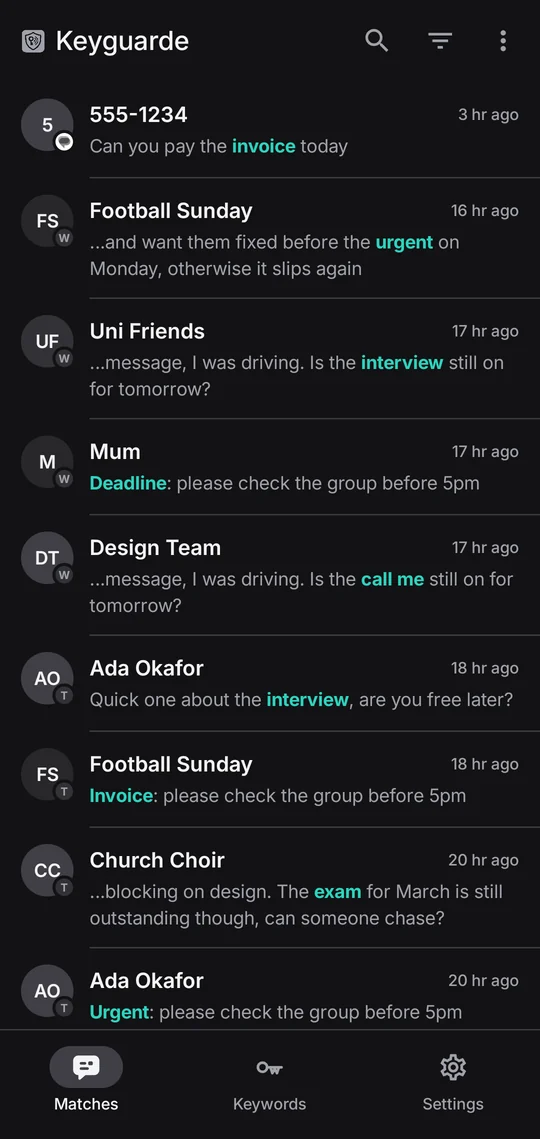
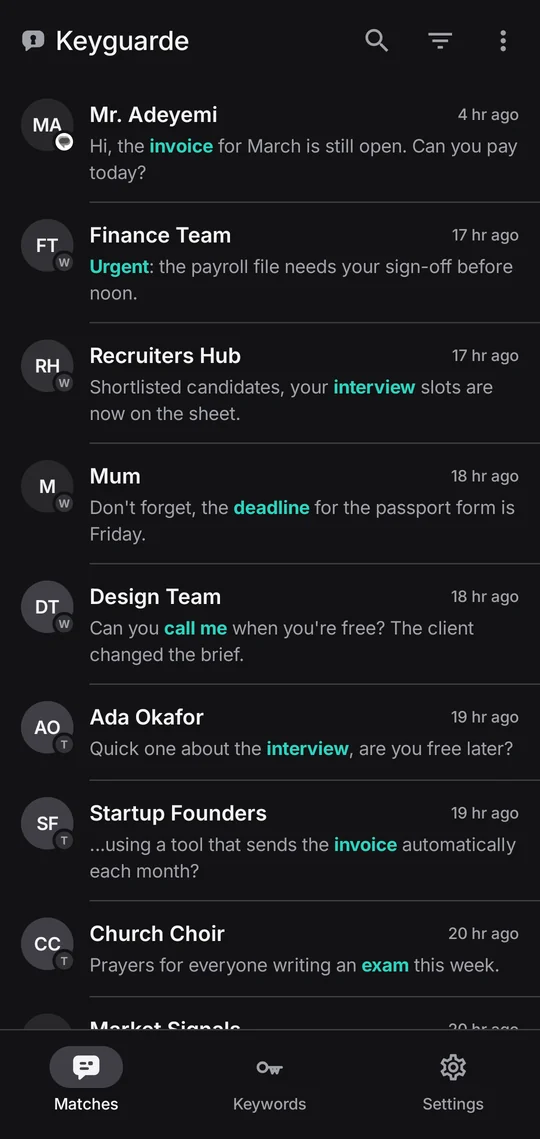
fix(website): design review fixes
Android phone frame and fresh screenshots with distinct messages and the new logo. Notification cards stay off the screen on desktop and stack at reading size on phones. The headline breaks after "an" so the rotating word never re-wraps. Labels move to Inter so the condensed face means keywords only. Outline nav button, 44px tap targets, a lifted dark-mode privacy band, trust questions first, and "Free, with ads".

Changed region(s): [[0.0296, 0.0922, 0.9778, 0.9219], [0.0296, 0.0307, 0.1481, 0.1536], [0.9185, 0.8604, 0.9481, 0.8911]]

diff --git a/website/src/components/home/Hero.tsx b/website/src/components/home/Hero.tsx
@@ -8,6 +8,21 @@ import PlayBadge from './PlayBadge';
 import matchesLight from '../../assets/app/matches-light.webp';
 import matchesDark from '../../assets/app/matches-dark.webp';
 
+const landlord = {
+  app: 'WhatsApp',
+  chat: 'Landlord',
+  before: 'Reminder: ',
+  keyword: 'rent',
+  after: ' is due on Friday.'
+};
+const hiring = {
+  app: 'Telegram',
+  chat: 'Hiring team',
+  before: 'Your ',
+  keyword: 'interview',
+  after: ' is moved to 10am tomorrow.'
+};
+
 // All take "an", so the sentence reads right whichever word is showing.
 const heroWords = ['invoice', 'interview', 'offer', 'order'];
 const heroWordMillis = 2400;
@@ -22,9 +37,13 @@ export default function Hero({ onHowItWorks }: HeroProps) {
   return (
     <section className="mx-auto grid max-w-6xl items-center gap-16 px-4 pt-12 pb-20 md:px-6 lg:grid-cols-[1.1fr_1fr] lg:pt-20">
       <div>
-        <SectionLabel>Android app · Free</SectionLabel>
-        <h1 className="mt-4 text-5xl leading-[1.05] font-bold tracking-tight text-ink md:text-6xl">
-          Never miss an <Keyword>{word}</Keyword> again
+        <SectionLabel>Android app · Free, with ads</SectionLabel>
+        {/* A fixed break after "an", and a size the longest word fits at 360px, so the rotating
+            word never re-wraps the headline. */}
+        <h1 className="mt-4 text-4xl leading-[1.05] font-bold tracking-tight text-ink sm:text-5xl md:text-6xl">
+          Never miss an
+          <br />
+          <Keyword>{word}</Keyword> again
         </h1>
         <p className="mt-6 max-w-xl text-lg leading-relaxed text-ink-muted">
           Keyguarde watches your chat notifications for the words you pick, and keeps every message
@@ -35,7 +54,7 @@ export default function Hero({ onHowItWorks }: HeroProps) {
           <button
             type="button"
             onClick={onHowItWorks}
-            className="font-semibold text-ink underline decoration-line-strong underline-offset-4 hover:decoration-ink"
+            className="inline-flex min-h-11 items-center font-semibold text-ink underline decoration-line-strong underline-offset-4 hover:decoration-ink"
           >
             How it works
           </button>
@@ -44,6 +63,12 @@ export default function Hero({ onHowItWorks }: HeroProps) {
       </div>
 
       <div className="relative mx-auto w-full max-w-sm">
+        {/* Below desktop width the cards stack above the phone at reading size; they carry the
+            story of a message coming in, and the screenshot alone is too small to read there. */}
+        <div className="mb-6 grid gap-3 lg:hidden">
+          <NotificationCard {...landlord} />
+          <NotificationCard {...hiring} />
+        </div>
         <PhoneFrame className="mx-auto w-64 md:w-72">
           <ScreenShot
             light={matchesLight}
@@ -52,21 +77,11 @@ export default function Hero({ onHowItWorks }: HeroProps) {
             className="h-auto w-full"
           />
         </PhoneFrame>
+        {/* On desktop they sit off the phone's edges, touching only the frame. */}
+        <NotificationCard {...landlord} className="absolute top-24 -left-40 hidden w-52 lg:block" />
         <NotificationCard
-          app="WhatsApp"
-          chat="Landlord"
-          before="Reminder: "
-          keyword="rent"
-          after=" is due on Friday."
-          className="absolute top-28 -left-32 hidden lg:block"
-        />
-        <NotificationCard
-          app="Telegram"
-          chat="Hiring team"
-          before="Your "
-          keyword="interview"
-          after=" is moved to 10am tomorrow."
-          className="absolute -right-20 bottom-14 hidden lg:block"
+          {...hiring}
+          className="absolute -right-36 bottom-16 hidden w-52 lg:block"
         />
       </div>
     </section>

diff --git a/website/src/components/home/Faq.tsx b/website/src/components/home/Faq.tsx
@@ -1,32 +1,9 @@
 import { ChevronDown } from 'lucide-react';
 import SectionLabel from './SectionLabel';
 
-// The same answers as Help in the app, so the two never disagree.
+// The same answers as Help in the app, so the two never disagree. Ordered for someone deciding
+// whether to install: trust first, troubleshooting last.
 const faqs = [
-  {
-    question: 'Why am I not getting matches?',
-    answer:
-      'Open Settings and tap Run a test. If the test fails, turn Keyguarde’s notification access off, then on. Also check the app is ticked under Apps, and Battery use says Unrestricted.'
-  },
-  {
-    question: 'How do matches work?',
-    answer:
-      'Whole words, any case. “rent” matches “Rent due” but not “current”. One message can match several keywords.'
-  },
-  {
-    question: 'How do I add or remove keywords?',
-    answer:
-      'Open the Keywords tab. Type a word at the top to add it. Tap a keyword to edit it, or swipe it left to delete it.'
-  },
-  {
-    question: 'Can I pick which apps it watches?',
-    answer: 'Yes. Open Settings, then Apps. Chat apps on your phone are listed first.'
-  },
-  {
-    question: 'Why does Keyguarde need notification access?',
-    answer:
-      'It checks each new notification for your keywords. Without access, Android doesn’t show it any.'
-  },
   {
     question: 'Does it read my messages?',
     answer:
@@ -40,6 +17,30 @@ const faqs = [
   {
     question: 'Will it drain my battery?',
     answer: 'No. It does nothing between notifications, and each check is a short text search.'
+  },
+  {
+    question: 'Why does Keyguarde need notification access?',
+    answer:
+      'It checks each new notification for your keywords. Without access, Android doesn’t show it any.'
+  },
+  {
+    question: 'How do matches work?',
+    answer:
+      'Whole words, any case. “rent” matches “Rent due” but not “current”. One message can match several keywords.'
+  },
+  {
+    question: 'Can I pick which apps it watches?',
+    answer: 'Yes. Open Settings, then Apps. Chat apps on your phone are listed first.'
+  },
+  {
+    question: 'How do I add or remove keywords?',
+    answer:
+      'Open the Keywords tab. Type a word at the top to add it. Tap a keyword to edit it, or swipe it left to delete it.'
+  },
+  {
+    question: 'Why am I not getting matches?',
+    answer:
+      'Open Settings and tap Run a test. If the test fails, turn Keyguarde’s notification access off, then on. Also check the app is ticked under Apps, and Battery use says Unrestricted.'
   }
 ];
 

diff --git a/website/src/components/home/PhoneFrame.tsx b/website/src/components/home/PhoneFrame.tsx
@@ -6,22 +6,28 @@ interface PhoneFrameProps {
 }
 
 /**
- * A plain phone outline around a screenshot. The screenshots are cropped below Android's status
- * bar, so the frame draws a quiet one of its own.
+ * An Android phone outline around a screenshot: a centred punch-hole camera and an Android-style
+ * status bar. The screenshots are cropped below the real status bar, so the frame draws its own.
  */
 export default function PhoneFrame({ children, className }: PhoneFrameProps) {
   return (
-    <div className={`rounded-[2.75rem] bg-device p-2.5 shadow-medium ${className ?? ''}`}>
-      <div className="overflow-hidden rounded-[2.25rem] bg-paper">
+    <div className={`rounded-[2.25rem] bg-device p-2 shadow-medium ${className ?? ''}`}>
+      <div className="overflow-hidden rounded-[1.85rem] bg-paper">
         <div
           aria-hidden="true"
-          className="flex items-center justify-between px-6 pt-3 pb-1 text-xs font-semibold text-ink"
+          className="relative flex items-center justify-between px-5 pt-2.5 pb-1 text-[11px] font-medium text-ink"
         >
           <span>9:41</span>
-          <span className="h-4 w-16 rounded-full bg-device" />
-          <span className="flex gap-1">
-            <span className="h-2.5 w-2.5 rounded-full bg-ink-muted" />
-            <span className="h-2.5 w-4 rounded-sm bg-ink-muted" />
+          <span className="absolute top-2 left-1/2 h-3.5 w-3.5 -translate-x-1/2 rounded-full bg-device" />
+          <span className="flex items-end gap-1">
+            {/* Signal, then battery. */}
+            <span className="flex items-end gap-px">
+              <span className="h-1 w-0.5 rounded-sm bg-ink" />
+              <span className="h-1.5 w-0.5 rounded-sm bg-ink" />
+              <span className="h-2 w-0.5 rounded-sm bg-ink" />
+              <span className="h-2.5 w-0.5 rounded-sm bg-ink" />
+            </span>
+            <span className="ml-1 h-2.5 w-1.5 rounded-[2px] bg-ink" />
           </span>
         </div>
         {children}

diff --git a/website/src/components/home/PrivacyBand.tsx b/website/src/components/home/PrivacyBand.tsx
@@ -1,7 +1,13 @@
 import { Link } from 'react-router-dom';
 import SectionLabel from './SectionLabel';
 
-const stays = ['The messages it catches', 'Your keywords', 'The apps you watch', 'Your settings'];
+const stays = [
+  'The messages it catches',
+  'Chat pictures from those notifications',
+  'Your keywords',
+  'The apps you watch',
+  'Your settings'
+];
 const leaves = [
   'Usage stats and crash reports, to Google Firebase',
   'App start and load times, to Google Firebase',
@@ -21,7 +27,8 @@ export default function PrivacyBand() {
         </h2>
         <p className="mt-4 max-w-2xl leading-relaxed text-on-band-muted">
           Keyguarde reads notifications on the phone and keeps matches there. No server, no account,
-          and matches are left out of Android backups. Here’s the full list.
+          and matches are left out of Android backups. The short version is below; the policy has
+          every detail.
         </p>
         <div className="mt-12 grid gap-10 md:grid-cols-2">
           <PrivacyList title="Stays on your phone" items={stays} />
@@ -29,7 +36,7 @@ export default function PrivacyBand() {
         </div>
         <Link
           to="/privacy-policy"
-          className="mt-10 inline-block font-semibold underline decoration-on-band-muted underline-offset-4 hover:decoration-on-band"
+          className="mt-10 inline-flex min-h-11 items-center font-semibold underline decoration-on-band-muted underline-offset-4 hover:decoration-on-band"
         >
           Read the privacy policy
         </Link>

diff --git a/website/src/components/Footer.tsx b/website/src/components/Footer.tsx
@@ -13,7 +13,8 @@ const socials = [
 ];
 
 export default function Footer() {
-  const linkClass = 'text-sm text-ink-muted transition-colors hover:text-ink';
+  const linkClass =
+    'inline-flex min-h-11 items-center text-sm text-ink-muted transition-colors hover:text-ink';
 
   return (
     <footer className="border-t border-line bg-paper">
@@ -33,7 +34,7 @@ export default function Footer() {
             Contact
           </a>
         </div>
-        <div className="flex items-center gap-4 text-ink-muted">
+        <div className="-mx-3 flex items-center text-ink-muted">
           {socials.map((social) => (
             <a
               key={social.href}
@@ -41,7 +42,7 @@ export default function Footer() {
               target="_blank"
               rel="noopener noreferrer"
               aria-label={social.label}
-              className="transition-colors hover:text-ink"
+              className="inline-flex h-11 w-11 items-center justify-center transition-colors hover:text-ink"
             >
               <ReactSVG src={social.icon} className="h-5 w-5" />
             </a>
@@ -49,7 +50,7 @@ export default function Footer() {
           <a
             href="mailto:jeffery@logickoder.dev"
             aria-label="Email jeffery@logickoder.dev"
-            className="transition-colors hover:text-ink"
+            className="inline-flex h-11 w-11 items-center justify-center transition-colors hover:text-ink"
           >
             <Mail size={20} aria-hidden="true" />
           </a>

diff --git a/website/src/components/Navbar.tsx b/website/src/components/Navbar.tsx
@@ -25,7 +25,7 @@ export default function Navbar() {
               key={section.id}
               type="button"
               onClick={() => scrollTo(section.id)}
-              className="text-sm text-ink-muted transition-colors hover:text-ink"
+              className="inline-flex min-h-11 items-center text-sm text-ink-muted transition-colors hover:text-ink"
             >
               {section.label}
             </button>
@@ -35,7 +35,7 @@ export default function Navbar() {
           href={playStoreUrl}
           target="_blank"
           rel="noopener noreferrer"
-          className="rounded-full bg-ink px-4 py-2 text-sm font-semibold text-paper transition-opacity hover:opacity-90"
+          className="inline-flex min-h-11 items-center rounded-full border border-ink px-4 text-sm font-semibold text-ink transition-colors hover:bg-ink hover:text-paper"
         >
           Get the app
         </a>

diff --git a/website/src/components/home/SectionLabel.tsx b/website/src/components/home/SectionLabel.tsx
@@ -5,11 +5,14 @@ interface SectionLabelProps {
   onBand?: boolean;
 }
 
-/** The numbered small-caps label above each section, in the app's keyword-pill face. */
+/**
+ * The numbered label above each section. Body face on purpose: the condensed face means "a word
+ * you picked" everywhere else, so it stays on keywords only.
+ */
 export default function SectionLabel({ number, children, onBand = false }: SectionLabelProps) {
   return (
     <p
-      className={`font-label text-sm font-medium tracking-[0.12em] uppercase ${onBand ? 'text-on-band-muted' : 'text-ink-muted'}`}
+      className={`text-xs font-semibold tracking-[0.14em] uppercase ${onBand ? 'text-on-band-muted' : 'text-ink-muted'}`}
     >
       {number ? `${number} · ${children}` : children}
     </p>

diff --git a/website/src/components/home/NotificationCard.tsx b/website/src/components/home/NotificationCard.tsx
@@ -19,9 +19,7 @@ export default function NotificationCard({
   className
 }: NotificationCardProps) {
   return (
-    <div
-      className={`w-56 rounded-2xl border border-line bg-paper p-4 shadow-medium ${className ?? ''}`}
-    >
+    <div className={`rounded-2xl border border-line bg-paper p-4 shadow-medium ${className ?? ''}`}>
       <div className="flex items-center gap-2 text-xs text-ink-muted">
         <span className="flex h-5 w-5 items-center justify-center rounded-full bg-surface-high text-[10px] font-bold text-ink">
           {app.charAt(0)}

diff --git a/website/src/components/home/DownloadBand.tsx b/website/src/components/home/DownloadBand.tsx
@@ -3,7 +3,7 @@ import PlayBadge from './PlayBadge';
 export default function DownloadBand() {
   return (
     <section id="download" className="scroll-mt-20 border-t border-line bg-surface">
-      <div className="mx-auto flex max-w-6xl flex-col items-start gap-6 px-4 py-16 md:flex-row md:items-center md:justify-between md:px-6">
+      <div className="mx-auto flex max-w-6xl flex-col items-start gap-6 px-4 py-16 md:px-6">
         <div>
           <h2 className="text-2xl font-bold tracking-tight text-ink md:text-3xl">
             Set it up in a minute.

diff --git a/website/src/components/LegalPage.tsx b/website/src/components/LegalPage.tsx
@@ -11,7 +11,7 @@ interface LegalPageProps {
 export default function LegalPage({ title, summary, updated, children }: LegalPageProps) {
   return (
     <main className="mx-auto max-w-3xl px-4 py-16 md:px-6">
-      <p className="font-label text-sm font-medium tracking-[0.12em] text-ink-muted uppercase">
+      <p className="text-xs font-semibold tracking-[0.14em] text-ink-muted uppercase">
         Last updated · {updated}
       </p>
       <h1 className="mt-3 text-4xl font-bold tracking-tight text-ink md:text-5xl">{title}</h1>

diff --git a/website/src/components/home/HowItWorks.tsx b/website/src/components/home/HowItWorks.tsx
@@ -45,7 +45,7 @@ export default function HowItWorks() {
             className="flex flex-col overflow-hidden rounded-2xl border border-line bg-surface"
           >
             <div className="p-6">
-              <p className="font-label text-sm text-ink-muted">
+              <p className="text-sm font-semibold text-ink-muted tabular-nums">
                 {String(index + 1).padStart(2, '0')}
               </p>
               <h3 className="mt-2 text-xl font-semibold text-ink">{step.title}</h3>

diff --git a/website/src/main.css b/website/src/main.css
@@ -45,7 +45,8 @@ layer(base);
     --on-inverse: #27272a;
     --danger: #f97066;
     --device: #27272a;
-    --band: #1c1c1f;
+    /* Lifted well clear of the page, so the one band still reads as a band at night. */
+    --band: #232327;
   }
 }
 
